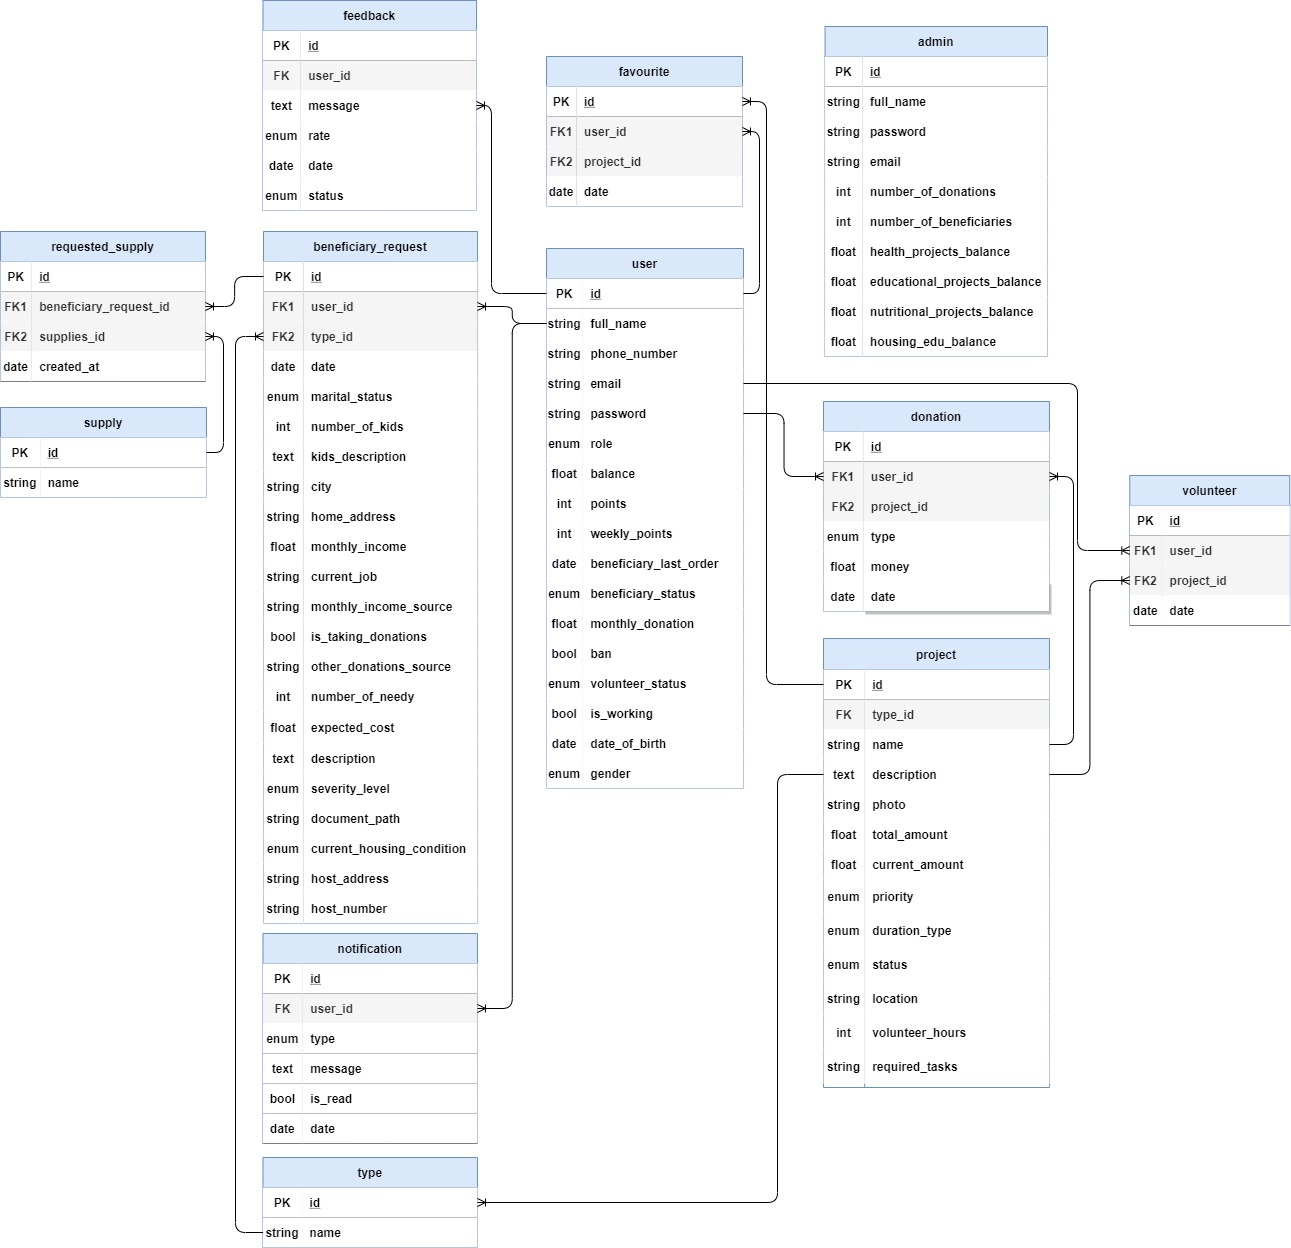
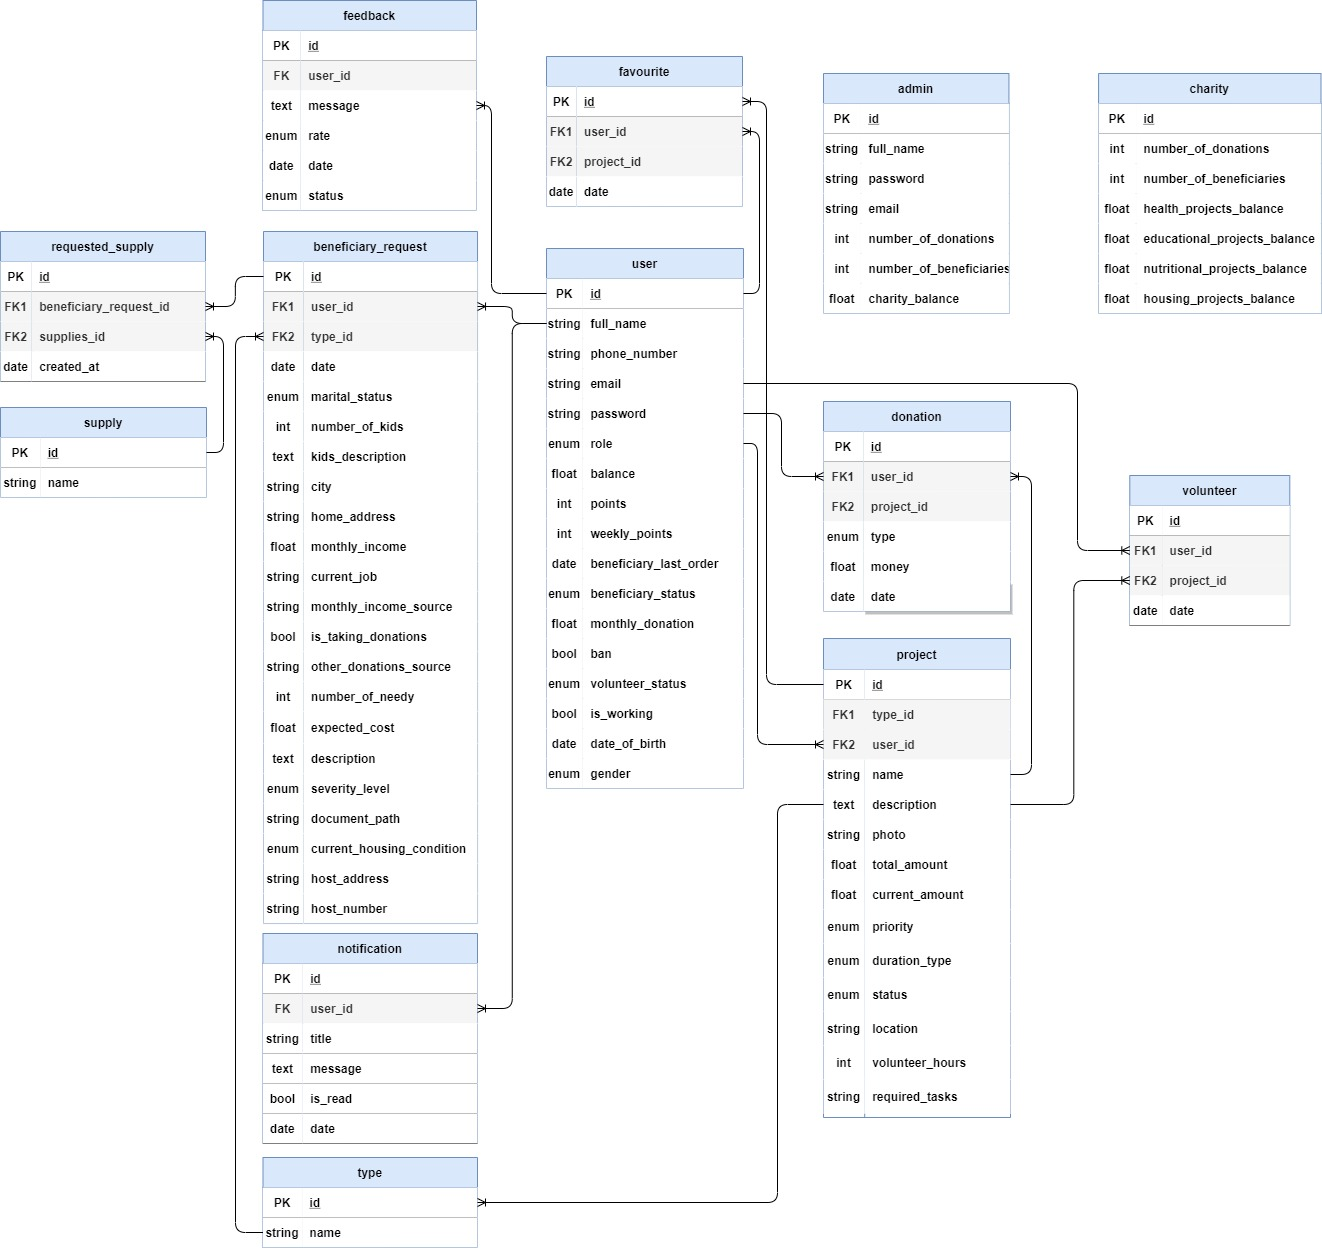
add balance + gift (not completed yet)

diff --git a/Charity_Project_Backend/app/Http/Controllers/ProjectController.php b/Charity_Project_Backend/app/Http/Controllers/ProjectController.php
@@ -14,12 +14,9 @@ use Illuminate\Support\Facades\Auth;
 class ProjectController extends Controller
 {
     public function addProject(AddProjectRequest $request)
-    {   
-       
+    {
         $validatedData = $request->validated();
-        // لازم شيك انو الكلفة الابتدائية يلي دخلها اصغر من رصيد الجمعية لهاد النوع
-        // تزبيط تخزين الصورة
-        // تزبيط رسائل الاشعارات
+        // تزبيط تخزين الصورة بحال ما كان مشروع تطوعي
         $project = Project::create($validatedData);
         $users = User::all();
         if ($project->duration_type == 'تطوعي') {
@@ -27,19 +24,19 @@ class ProjectController extends Controller
                 if ($user->role == 'متطوع') {
                     $notification = [
                         'user_id' => $user->id,
-                        'message' => ['ساهم في التطوع لهذا المشروع']
+                        'title' => 'فرصة تطوع جديدة بانتظارك',
+                        'message' => 'مشروع تطوعي جديد متاح الآن ' . $project->name . ' يمكنك التقديم والمساهمة في خدمة المجتمع، انضم واصنع فرقاً'
                     ];
                     Notification::create($notification);
                 }
-                
             }
-        }
-        else if ($project->priority == 'حرج') {
+        } else if ($project->priority == 'حرج') {
             foreach ($users as $user) {
                 if ($user->role == 'محتاج') continue;
                 $notification = [
                     'user_id' => $user->id,
-                    'message' => ['ساهم في التبرع لهذه الحالة الطارئة']
+                    'title' => 'نداء عاجل ، هناك مشروع بحاجة لدعمك',
+                    'message' => 'حالة عاجلة جديدة بحاجة إلى التدخل الفوري '. $project->name .' نأمل أن تكون من المبادرين لدعمها'
                 ];
                 Notification::create($notification);
             }
@@ -47,45 +44,45 @@ class ProjectController extends Controller
         if ($project->duration_type == 'فردي') {
             $notification = [
                 'user_id' => $project->user_id,
-                'message' => ['تم تنزيل حالتك على التطبيق']
+                'title' => 'تم نشر حالتك',
+                'message' => 'تم نشر حالتك في التطبيق، نأمل أن تصل المساعدة إليك قريباً بإذن الله'
             ];
             Notification::create($notification);
         }
         return response()->json($project, 201);
     }
 
-//عرض كل المشاريع 
+    //عرض كل المشاريع 
 
-    public function getallProject()
+    public function getAllProjects()
     {
 
         $project = Project::all();
         return response()->json($project, 200);
     }
 
-      //ارجاع المشاريع التطوع حسب التايب
-          public function getProjectbyvolunteeringdomain($volunteeringdomain)
-{
-    $type =Type::where('name', $volunteeringdomain)->first();
+    //ارجاع المشاريع التطوع حسب التايب
+    public function getVolunteerProjectsByType($volunteeringDomain)
+    {
+        $type = Type::where('name', $volunteeringDomain)->first();
 
-    if ($type) {
-        $projects =Project::where('type_id', $type->id)
-            ->where('duration_type', 'تطوعي')
-            ->get();
+        if ($type) {
+            $projects = Project::where('type_id', $type->id)
+                ->where('duration_type', 'تطوعي')
+                ->get();
 
-        return response()->json($projects, 200);
-    } else {
-        return response()->json(['message' => 'لا يوجد نوع بهذا الاسم'], 404);
+            return response()->json($projects, 200);
+        } else {
+            return response()->json(['message' => 'لا يوجد نوع بهذا الاسم'], 404);
+        }
     }
-}
 
 
 
     public function deleteProject($id)
     {
-
+        // تزبيط انو الحذف بصير بس بحال الcurrent amount كانت تساوي الصفر
         $project = Project::findOrFail($id);
-
         $project->delete();
         return response()->json(null, 204);
     }

diff --git a/Charity_Project_Backend/app/Http/Controllers/UserController.php b/Charity_Project_Backend/app/Http/Controllers/UserController.php
@@ -14,9 +14,9 @@ class UserController extends Controller
     public function register(Request $request)
     {
         $validate = $request->validate([
-            'full_name' => 'required|string|max:250',
+            'full_name' => 'required|string|max:40',
             'phone_number' => 'required|string|min:6|max:10|unique:users,phone_number',
-            'email' => 'required|string|email|unique:users,email|max:250',
+            'email' => 'required|string|email|unique:users,email|max:40',
             'password' => 'required|string|min:5|confirmed'
         ]);
 
@@ -62,7 +62,7 @@ class UserController extends Controller
         ]);
 
         $user = Auth::user();
-        
+
         // تحديث كلمة المرور بشكل صحيح
         $user->update([
             'password' => Hash::make($request->new_password)
@@ -73,9 +73,50 @@ class UserController extends Controller
 
     public function GetUserInformation()
     {
-
         $user_id = Auth::user()->id;
         $userData = User::findOrFail($user_id);
         return new UserResource($userData);
     }
+
+    public function addToBalance(Request $request)
+    {
+        $validate = $request->validate([
+            'card_number' => 'required|digits:16',
+            'amount' => 'required|numeric|min:0.1'
+        ]);
+        $user = Auth::user();
+        $user->balance += $request->amount;
+        $user->save();
+        return response()->json($user, 200);
+    }
+
+    public function giveGift(Request $request) {
+        // بدي خزن هاد الشي بسجل التبرعات تبعي
+        // بدي ابعت للمحتاج اشعار انو وصلو هدية
+        // ضيف واحد على عدد المتبرعين الكلي وعدد المستفيدين الكلي
+
+        $validate = $request->validate([
+            'phone_number' => 'required|string|min:6|max:10|unique:users,phone_number',
+            'beneficiary_name' => 'required|string|max:40',
+            'amount' => 'required|numeric|min:0.1'
+        ]);
+        $user = Auth::user();
+        $beneficiary = User::where('phone_number', $request->phone_number)->first();
+        if ($beneficiary || $beneficiary->role == 'محتاج') {
+            if ($request->amount > $user->balance) {
+                return response()->json(['message' => 'لا يوجد لديك رصيد كافي للقيام بهذه العملية، الرجاء شحن المحفظة والمحاولة مرة أخرى'], 422);
+            }
+            $user->balance -= $request->amount;
+            $user->save();
+            // $notification = [
+            //     'user_id' => $beneficiary->id,
+            //     'title' => 'تم توصيل هدية إليك',
+            //     'message' => 'تم توصيل هدية إليك من أحد المتبرعين بمبلغ ' . $request->amount . ' نأمل أن تكون سبباً في رسم البسمة على وجهك.'
+            // ];
+            // Notification::create($notification);
+        } else {
+            return response()->json(['message' => 'لقد حدث خطأ! يبدو أن هذا المحتاج غير مسجل لدينا في التطبيق، يمكنك دعوته للتسجيل على صفحة الويب الخاصة بنا'], 404);
+        }
+    }
+
 }

diff --git a/Charity_Project_Backend/app/Http/Requests/AddProjectRequest.php b/Charity_Project_Backend/app/Http/Requests/AddProjectRequest.php
@@ -22,13 +22,13 @@ class AddProjectRequest extends FormRequest
     public function rules(): array
     {
         return [
-            'user_id' => 'required_if:duration_type,تطوعي|integer|exists:types,id',
+            'user_id' => 'required_if:duration_type,تطوعي|integer|exists:users,id',
             'type_id' => 'required|integer|exists:types,id',
             'name' => 'required|string|max:200',
             'description' => 'required|string|max:200',
             'photo' => 'nullable|image|mimes:png,jpg,jpeg,gif|max:2048',
-            'total_amount' => 'required|string|max:200',
-            'current_amount' => 'required|string|max:200',
+            'total_amount' => 'required|float|min:0',
+            'current_amount' => 'required|float|min:0',
 
             'priority' => ['nullable', 'string', Rule::in(['منخفض', 'متوسط', 'مرتفع', 'حرج'])],
             'duration_type' => ['required', 'string', Rule::in(['مؤقت', 'دائم', 'تطوعي', 'فردي'])],
@@ -38,4 +38,18 @@ class AddProjectRequest extends FormRequest
             'required_tasks' => 'required_if:duration_type,تطوعي|string|max:200',
         ];
     }
+
+    public function withValidator($validator)
+    {
+        $validator->after(function ($validator) {
+            $total_amount = $this->input('total_amount');
+            $current_amount = $this->input('current_amount');
+
+            // إذا القيمتين موجودين ومقارنة الأرقام منطقية
+            if (!is_null($total_amount) && !is_null($current_amount) && $current_amount > $total_amount) {
+                $validator->errors()->add('current_amount', 'المبلغ الحالي يجب أن لا يتجاوز المبلغ الكلي.');
+            }
+        });
+    }
+
 }

diff --git a/Charity_Project_Backend/routes/api.php b/Charity_Project_Backend/routes/api.php
@@ -19,20 +19,23 @@ Route::post('/login', [UserController::class, 'login']);
 
 Route::post('/logout', [UserController::class, 'logout']);
 Route::put('/editpassword', [UserController::class, 'editPassword']);
-Route::get('/getUser', [UserController::class, 'GetUserInformation']);
+Route::get('/getUser', [UserController::class, 'GetUserInformation'])->middleware('auth:sanctum');
 
 
 
 Route::post('/admin/addProject', [ProjectController::class, 'addProject']);
 Route::put('/admin/editProject/{id}', [ProjectController::class, 'editProject']);
-Route::get('/getallProject', [ProjectController::class, 'getallProject']);
+Route::get('/getAllProjects', [ProjectController::class, 'getAllProjects']);
 Route::delete('/admin/deleteProject/{id}', [ProjectController::class, 'deleteProject']);
 
-Route::get('/getProjectbyvolunteeringdomain/{volunteeringdomain}', [ProjectController::class, 'getProjectbyvolunteeringdomain']);
+Route::get('/getVolunteerProjectsByType/{volunteeringDomain}', [ProjectController::class, 'getVolunteerProjectsByType']);
 
 
-Route::post('/donor/volunteerrequest', [VolunteerController::class, 'addvolunteerrequest'])->middleware('auth:sanctum');
-Route::get('/admin/getallvolunteerrequest', [VolunteerController::class, 'getallvolunteerrequest']);
+Route::post('/donor/volunteerRequest', [VolunteerController::class, 'addVolunteerRequest'])->middleware('auth:sanctum');
+Route::get('/admin/getAllVolunteerRequests', [VolunteerController::class, 'getAllVolunteerRequests']);
+
+
+Route::post('/donor/addToBalance', [UserController::class, 'addToBalance'])->middleware('auth:sanctum');
 
 /*
 

diff --git a/Charity_Project_Backend/app/Http/Controllers/VolunteerController.php b/Charity_Project_Backend/app/Http/Controllers/VolunteerController.php
@@ -12,35 +12,32 @@ class VolunteerController extends Controller
 {
 
     //التسجيل على استبيان التطوع 
-    
-    public function addvolunteerrequest(AddVolunteerRequest $request)
-{
 
-    $user_id=Auth::User()->id;
-    $validatedData = $request->validated();
-    $validatedData['user_id']=$user_id;
-    $volunteer = Volunteer::create($validatedData);
+    public function addVolunteerRequest(AddVolunteerRequest $request)
+    {
 
-    $user = User::find($validatedData['user_id']);
-    if ($user) {
-        $user->role = 'متطوع';
-        $user->save();
+        $user_id = Auth::User()->id;
+        $validatedData = $request->validated();
+        $validatedData['user_id'] = $user_id;
+        $volunteer = Volunteer::create($validatedData);
+
+        $user = User::find($validatedData['user_id']);
+        if ($user) {
+            $user->role = 'متطوع';
+            $user->save();
+        }
+
+        return response()->json($volunteer, 201);
     }
 
-    return response()->json($volunteer, 201);
-}
-
-//عرض كل استبيانات التطوع
+    //عرض كل استبيانات التطوع
 
 
-public function getallvolunteerrequest(){
-
-     
-     $volunteer_request = Volunteer::all();
-        return response()->json($volunteer_request , 200);
-
-}
+    public function getAllVolunteerRequests()
+    {
 
 
-
+        $volunteer_request = Volunteer::all();
+        return response()->json($volunteer_request, 200);
+    }
 }

diff --git a/Charity_Project_Backend/database/migrations/2025_06_01_151728_create_donations_table.php b/Charity_Project_Backend/database/migrations/2025_06_01_151728_create_donations_table.php
@@ -14,8 +14,8 @@ return new class extends Migration
         Schema::create('donations', function (Blueprint $table) {
             $table->id();
             $table->foreignId('user_id')->constrained('users')->cascadeOnDelete();
-            $table->foreignId('project_id')->constrained('projects')->cascadeOnDelete();
-            $table->enum('type', ['project_donation', 'zakat', 'monthly_donation'])->default('project_donation');
+            $table->foreignId('project_id')->nullable()->constrained('projects')->cascadeOnDelete();
+            $table->enum('type', ['project_donation', 'zakat', 'monthly_donation', 'gift'])->default('project_donation');
             $table->float('money');
             $table->timestamps();
         });
